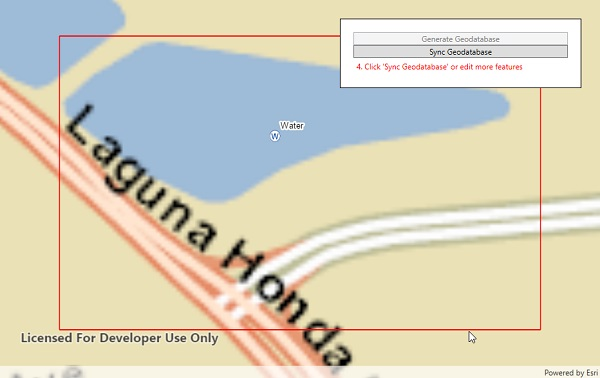
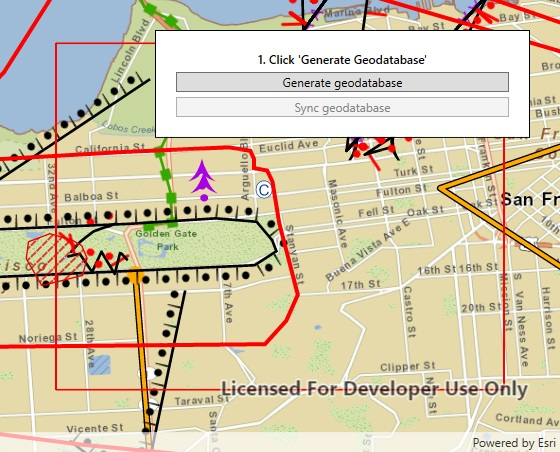
Edit and sync features
Improvements:

* Removed red text.
* Improved form margins.
* Moved the help label above the controls.
* Reformatted XAML.

diff --git a/src/WPF/ArcGISRuntime.WPF.Viewer/Samples/Data/EditAndSyncFeatures/EditAndSyncFeatures.xaml b/src/WPF/ArcGISRuntime.WPF.Viewer/Samples/Data/EditAndSyncFeatures/EditAndSyncFeatures.xaml
@@ -1,22 +1,29 @@
 <UserControl x:Class="ArcGISRuntime.WPF.Samples.EditAndSyncFeatures.EditAndSyncFeatures"
              xmlns="http://schemas.microsoft.com/winfx/2006/xaml/presentation"
              xmlns:x="http://schemas.microsoft.com/winfx/2006/xaml"
-             xmlns:mc="http://schemas.openxmlformats.org/markup-compatibility/2006"
-             xmlns:d="http://schemas.microsoft.com/expression/blend/2008"
-             xmlns:esri="http://schemas.esri.com/arcgis/runtime/2013"
-             mc:Ignorable="d"
-             d:DesignHeight="300" d:DesignWidth="300">
+             xmlns:esri="http://schemas.esri.com/arcgis/runtime/2013">
     <Grid>
-        <esri:MapView x:Name="MyMapView" GeoViewTapped="GeoViewTapped" />
-        <Border
-                Background="White" BorderBrush="Black" BorderThickness="1"
+        <esri:MapView x:Name="MyMapView"
+                      GeoViewTapped="GeoViewTapped" />
+        <Border Background="White" BorderBrush="Black" BorderThickness="1"
                 HorizontalAlignment="Right" VerticalAlignment="Top"
                 Margin="30" Padding="20" Width="375">
             <StackPanel>
-                <Button Content="Generate Geodatabase" Click="GenerateButton_Clicked" x:Name="MyGenerateButton" IsEnabled="False" />
-                <Button Content="Sync Geodatabase" Click="SyncButton_Click" IsEnabled="False" x:Name="MySyncButton" />
-                <ProgressBar x:Name="MyProgressBar" Visibility="Collapsed" MinHeight="10" />
-                <Label Foreground="Red" x:Name="MyHelpLabel">1. Click 'Generate Geodatabase'</Label>
+                <TextBlock x:Name="MyHelpLabel"
+                           Text="1. Click 'Generate Geodatabase'"
+                           TextAlignment="Center" FontWeight="SemiBold" />
+                <Button x:Name="MyGenerateButton"
+                        Content="Generate geodatabase"
+                        Margin="0,5,0,5"
+                        IsEnabled="False"
+                        Click="GenerateButton_Clicked" />
+                <Button x:Name="MySyncButton"
+                        Content="Sync geodatabase"
+                        IsEnabled="False"
+                        Click="SyncButton_Click" />
+                <ProgressBar x:Name="MyProgressBar"
+                             Visibility="Collapsed"
+                             MinHeight="15" Margin="0,5,0,0" />
             </StackPanel>
         </Border>
     </Grid>

diff --git a/src/WPF/ArcGISRuntime.WPF.Viewer/Samples/Data/EditAndSyncFeatures/EditAndSyncFeatures.xaml.cs b/src/WPF/ArcGISRuntime.WPF.Viewer/Samples/Data/EditAndSyncFeatures/EditAndSyncFeatures.xaml.cs
@@ -183,7 +183,7 @@ namespace ArcGISRuntime.WPF.Samples.EditAndSyncFeatures
                 MySyncButton.IsEnabled = true;
 
                 // Update the help label.
-                MyHelpLabel.Content = "4. Click 'Sync Geodatabase' or edit more features";
+                MyHelpLabel.Text = "4. Click 'Sync Geodatabase' or edit more features";
             }
             // Otherwise, start an edit.
             else
@@ -210,7 +210,7 @@ namespace ArcGISRuntime.WPF.Samples.EditAndSyncFeatures
                 _readyForEdits = EditState.Editing;
 
                 // Update the help label.
-                MyHelpLabel.Content = "3. Tap on the map to move the point";
+                MyHelpLabel.Text = "3. Tap on the map to move the point";
             }
         }
 
@@ -319,7 +319,7 @@ namespace ArcGISRuntime.WPF.Samples.EditAndSyncFeatures
                 _readyForEdits = EditState.Ready;
 
                 // Update help label.
-                MyHelpLabel.Content = "2. Tap a point feature to select";
+                MyHelpLabel.Text = "2. Tap a point feature to select";
             }
             else
             {
